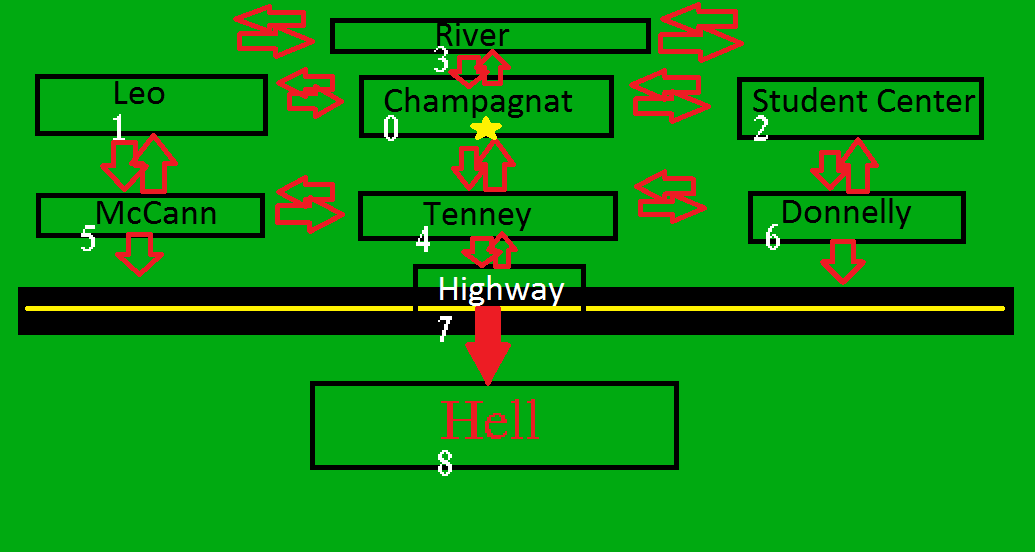
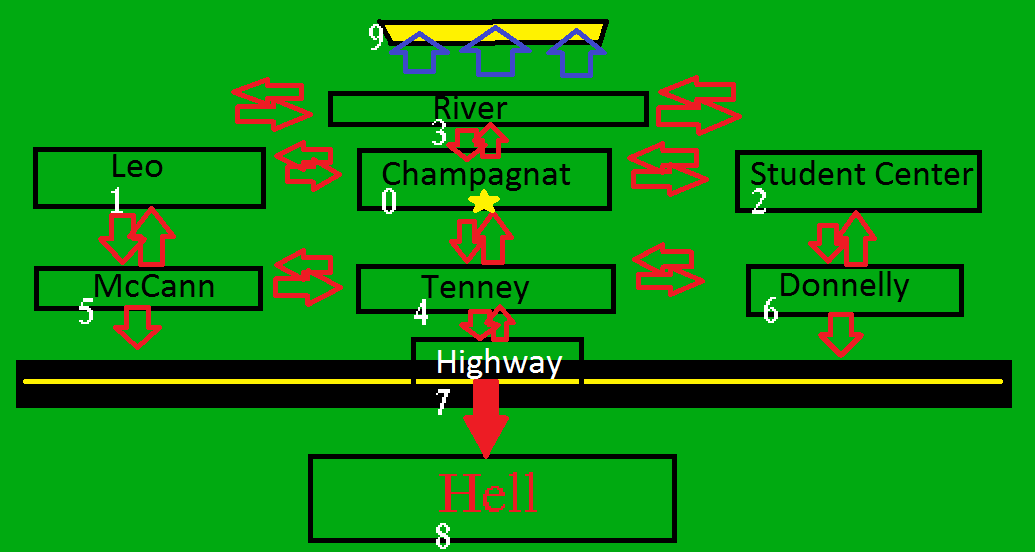
Last minute finale.
Added a way to win the game within 10 minutes of midnight.  Booya.

diff --git a/index.html b/index.html
@@ -17,10 +17,11 @@
     var loc = new Array(); //Array of locations to plug prototype values into
     var locItem = new Array(); //Array of items to plug prototype values into
     var isItShowing = 0;
+    var isItShowingh = 0;
     //prototype for Location:
     function Locale(id, LocalevsItem, name, desc){ 
         this.id = id;
-        this.name = name;
+        this.name = name;   
         this.desc = desc;
         this.toString = function() {
         return "["+LocalevsItem+" id = " + this.id + ", Name = " + this.name + ", Description = " + this.desc + "]";
@@ -30,18 +31,20 @@
     loc[0] = new Locale(0, 'Locale', 'Champagnat', 'You have arrived at the largest freshman dorm.');
     loc[1] = new Locale(1, 'Locale', 'Leo', 'You have arrived at the second largest freshman dorm.');
     loc[2] = new Locale(2, 'Locale', 'Student Center', 'You step into the main building on campus.  Hmmm what campus is this?\n\nYou have discovered a "Campus Map!" Would you like to grab it ("g")? \n[submit "i" in the console to view your inventory.]');
-    loc[3] = new Locale(3, 'Locale', 'River', 'You step into a large River.  It looks like the Hudson.. but the only way out is near Champagnat.\n\nYou have discovered a "Fishing Rod!" Would you like to grab it ("g")? \n[submit "i" in the console to view your inventory.]');
+    loc[3] = new Locale(3, 'Locale', 'River', 'You step into a large River.  It looks like the Hudson.. but what is that light on the other side?\n\nYou have discovered a "Fishing Rod!" Would you like to grab it ("g")? \n[submit "i" in the console to view your inventory.]');
     loc[4] = new Locale(4, 'Locale', 'Football Field', 'The sign says "Tenney Stadium."\n\nYou have discovered a "Football!" Would you like to grab it ("g")? \n[submit "i" in the console to view your inventory.]');
     loc[5] = new Locale(5, 'Locale', 'McCann Center', 'You have arrived at the building for swimming, basketball, and workouts.\n\nYou have discovered "Weights!" Would you like to grab it ("g")? \n[submit "i" in the console to view your inventory.]');
     loc[6] = new Locale(6, 'Locale', 'Donnelly', 'What is this? A building with both science and fashion? Odd...');
-    loc[7] = new Locale(7, 'Locale', 'Highway', 'You have found yourself mistakenly walking onto a highway, where a mysterious train materialized right in front of you. You must go back or die.');
+    loc[7] = new Locale(7, 'Locale', 'Highway', 'You have found yourself mistakenly walking onto a highway, where a train is heading at you. You must go back or die.');
     loc[8] = new Locale(8, 'Locale', 'Hell', "The train runs over you, crushing ever bone in your body.\nDeath brings down his arms, forcing a scythe that tears through your body, ripping your soul from it.\n\nYou have obtained Death's Scythe!");
+    loc[9] = new Locale(9, 'Locale', 'Heaven', "You approach the light, to find out that you were not lost.  You were dead all along.  Now you have found Heaven!");
     //Items next:
     locItem[0] = new Locale(0, 'Item', 'Campus Map', 'This Map may come in handy in the future!');
     locItem[1] = new Locale(1, 'Item', 'Fishing Rod', 'Not now, but I may fish in the future.');
     locItem[2] = new Locale(2, 'Item', 'Football', 'I miss throwing the old pigskin around..');
     locItem[3] = new Locale(3, 'Item', 'Weights', 'Do you even lift bro?');
     locItem[4] = new Locale(4, 'Item', 'The Scythe of Death', 'By greeting Death head on, you have forcefully obtained his Scythe.');
+    locItem[5] = new Locale(5, 'Item', 'Heaven', 'All the good in the world at your fingertips? Seems like a damn good deal considering all you did was cross a river.');
       
 	function startDisplay(){ //declares values at creation of HTML page
         //alert(loc[4].toString()); //test for Locale function
@@ -54,12 +57,13 @@
 		/*0-Champ*/		[2,  1, 4, 3, 0],
 		/*1-Leo*/		[0, -1, 5, -1, 1],
 		/*2-SC*/		[-1,  0, 6, -1, 1],
-		/*3-River*/		[3,  3, 0, -1, 1],
+		/*3-River*/		[3,  3, 0, 9, 1],
 		/*4-FB*/		[6,  5, 7, 0, 1],
 		/*5-McCann*/	[4,  -1, 7, 1, 1],
 		/*6-Donnelly*/	[-1,  4, 7, 2, 1],
 		/*7-Highway*/	[-1,  -1, 8, 4, 1],
-		/*8-Hell*/		[-1,  -1, -1, -1, 2]
+		/*8-Hell*/		[-1,  -1, -1, -1, 2],
+		/*9-Heaven*/	[-1,  -1, -1, -1, 3]
 		];
 		updateDisplay();
 	}
@@ -81,6 +85,14 @@
 			invString.value = invString.value + '\n' + locItem[4].name + '\n';
 			invDesString.value = invDesString.value + '\n' + locItem[4].desc + '\n';
 		}
+        if(currentLocale == 9){
+            var iPtr = document.getElementById("loc");
+            var invString = document.getElementById("invent");
+			var invDesString = document.getElementById("itemsDesBox");
+			invString.value = invString.value + '\n' + locItem[5].name + '\n';
+			invDesString.value = invDesString.value + '\n' + locItem[5].desc + '\n';
+            iPtr.value = "You have won the game with " + points + " out of a possible 50 experience points." + "\n\n" + history;
+        }
 	}
    
     function go(dir){//called when direction is given, where dir is the direction
@@ -148,24 +160,24 @@
 		switch(console.value.toLowerCase()){ //NOT case sensitive
 			case ("h"):
 				var hhh = document.getElementById("help");
-				if(hhh.className=='hide')
+				if(isItShowingh==1)
 				{
 					hhh.style.display = "inline";
-					hhh.className ='show';
+                    isItShowingh=0;
 				}else{
 					hhh.style.display = "none";
-					hhh.className ='hide';
+                    isItShowingh=1;
 				}
 			break;
 			case ("help"):
 				var hhh = document.getElementById("help");
-				if(hhh.className=='hide')
+				if(isItShowingh==1)
 				{
 					hhh.style.display = "inline";
-					hhh.className ='show';
+                    isItShowingh=0;
 				}else{
 					hhh.style.display = "none";
-					hhh.className ='hide';
+                    isItShowingh=1;
 				}
 			break;
 			case ("north"):
@@ -346,7 +358,7 @@
   <textarea id="itemsDesBox" style="width:400px; height:400px; background:#604020; border-color:#51dd51; color:#ffffff; display:none" readonly = "readyonly">
   Description:
   </textarea>
-  <textarea id="help" style="width:400px; height:200px; background:#604020; border-color:#51dd51; color:#ffffff; display:block" class="show" readonly = "readyonly">
+  <textarea id="help" style="width:400px; height:200px; background:#604020; border-color:#51dd51; color:#ffffff; display:block" readonly = "readyonly">
   Help:
   
   List of commands: 
